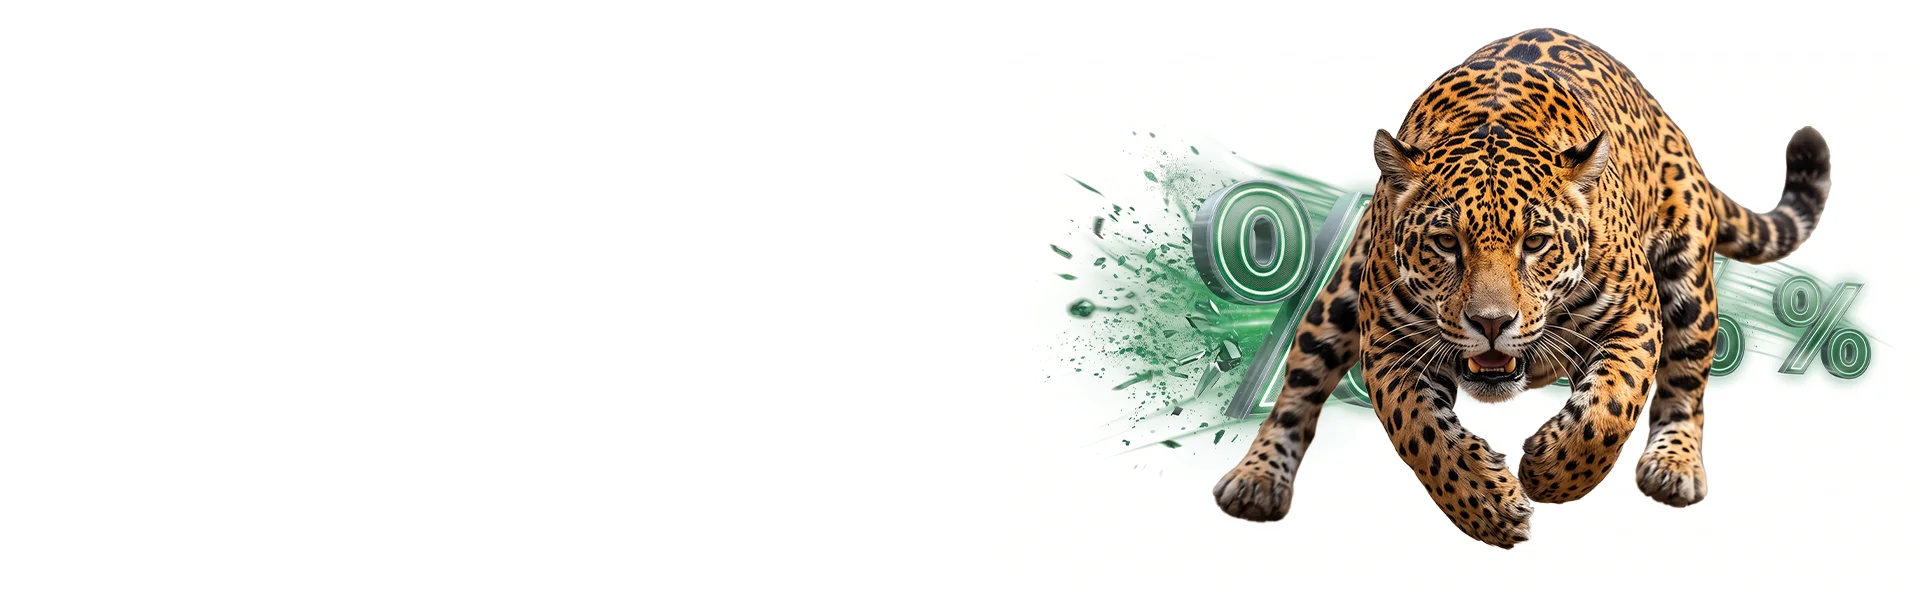
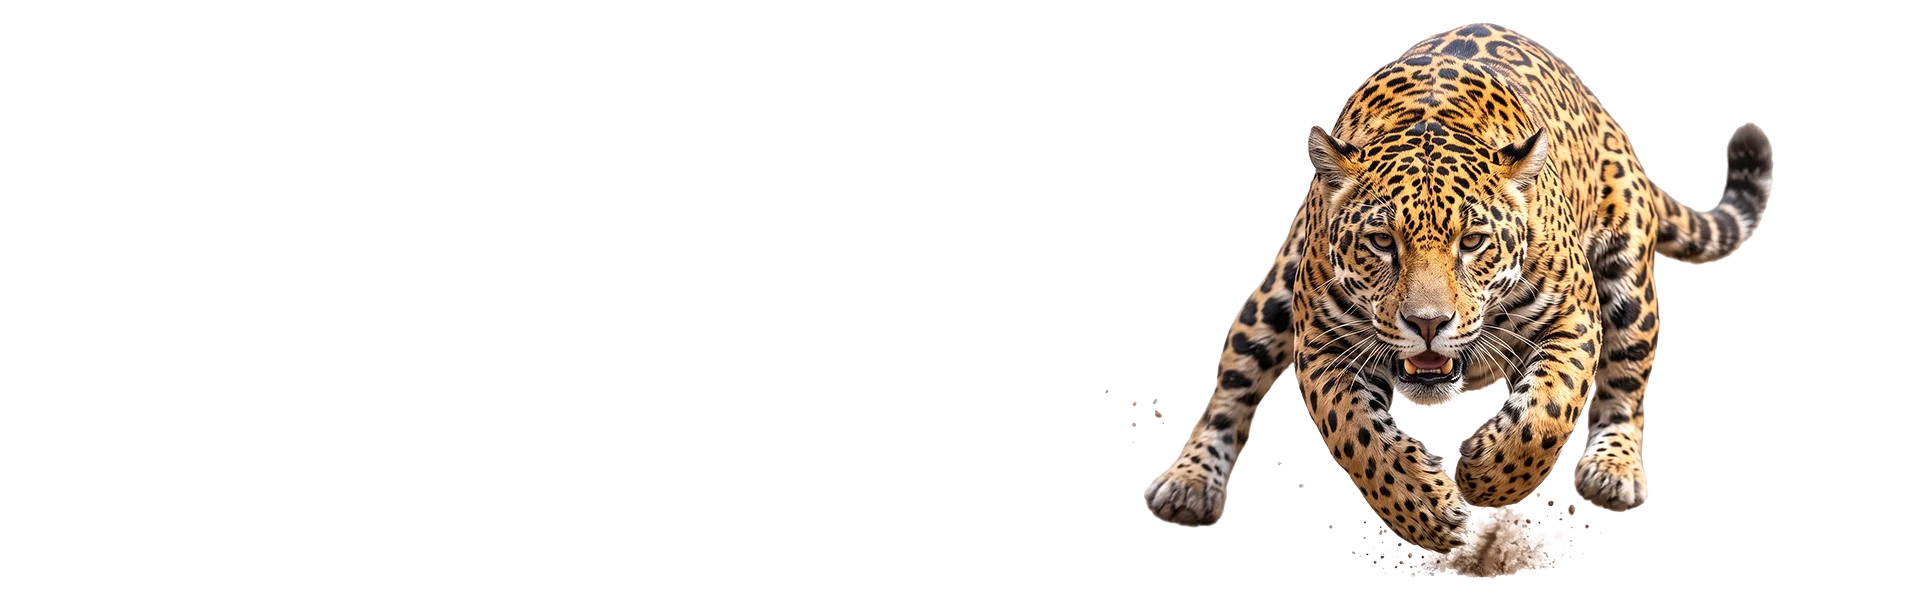
refactor: update newsletter section for improved mobile experience and clarity in documentation

Changed region(s): [[0.5312, 0.03, 1.0, 0.96]]

diff --git a/app/globals.css b/app/globals.css
@@ -865,7 +865,7 @@ strong, b { font-weight: var(--weight-bold); }
 .newsletter-feedback.commerce-error { color: var(--brand-text); }
 
 @media (max-width: 900px) {
-  .newsletter-section { --newsletter-background-image: url("/assets/home/newsletter/background/medicina-sagrada-newsletter-background-mobile.webp"); }
+  .newsletter-section { background-image: none; }
   .newsletter-layout { grid-template-columns: minmax(0, 1fr); gap: 2rem; }
   .newsletter-form { width: min(100%, 40rem); }
 }

diff --git a/public/assets/home/newsletter/background/README.md b/public/assets/home/newsletter/background/README.md
@@ -1,28 +1,26 @@
-# Fundos da newsletter
+# Fundo desktop da newsletter
 
-Coloque os dois arquivos finais nesta pasta, com exatamente estes nomes:
+Coloque o arquivo final nesta pasta, com exatamente o nome indicado:
 
 `public/assets/home/newsletter/background/`
 
 | Versão | Nome do arquivo | Dimensões de exportação | Peso recomendado |
 | --- | --- | --- | --- |
 | Desktop | `medicina-sagrada-newsletter-background-desktop.webp` | **1920 × 600 px** | Até **400 KB** |
-| Mobile | `medicina-sagrada-newsletter-background-mobile.webp` | **1080 × 1800 px** | Até **300 KB** |
 
-Formato: **WebP sRGB com transparência (canal alpha)**. Exporte sem achatar sobre branco. A cor branca da seção permanece por baixo da imagem. Estes são tamanhos de produção definidos para os arquivos a fornecer; as imagens ainda não foram entregues e seus tamanhos reais não foram verificados.
+Formato: **WebP sRGB com transparência (canal alpha)**. Exporte sem achatar sobre branco. A cor branca da seção permanece por baixo da imagem. Dimensões e peso são referências de produção. No mobile, a newsletter usa somente fundo branco, texto e formulário, sem imagem ou área reservada.
 
 ## Composição e área segura
 
-- A imagem fica no fundo de toda a seção, atrás do título, texto e formulário, sem receber eventos ou bloquear controles.
+- Desktop: a imagem fica no fundo da seção, sem receber eventos ou bloquear controles.
 - Não inclua títulos, textos, botão ou campos dentro da arte: esses elementos já existem em HTML.
 - Desktop: título, texto e formulário ficam empilhados na metade esquerda. Preserve essa área transparente ou de baixo contraste; a metade direita fica livre de conteúdo e pode receber a imagem principal.
-- Mobile: composição vertical, com detalhes nas bordas, topo e base; mantenha a coluna central leve ou transparente para a leitura e o formulário empilhados.
-- O CSS usa `background-size: cover` e centraliza a imagem, preservando a proporção. As bordas podem ser recortadas conforme largura e altura da seção, inclusive quando uma mensagem do formulário aumenta a altura.
-- Mantenha elementos visuais importantes dentro dos **70% centrais** da arte. Nas telas intermediárias, o recorte poderá ser maior; evite informação essencial no fundo.
-- A versão mobile entra em telas de **até 900px**, incluindo tablets estreitos. Acima de 900px, entra a versão desktop.
+- Desktop usa `background-size: cover` e centraliza a imagem, preservando a proporção. As bordas podem ser recortadas conforme largura e altura da seção, inclusive quando uma mensagem do formulário aumenta a altura.
+- No desktop, mantenha elementos visuais importantes dentro dos **70% centrais** da arte. Nas telas intermediárias, o recorte poderá ser maior; evite informação essencial no fundo.
+- O fundo desktop aparece somente em telas **acima de 900px**. Até 900px, incluindo tablets estreitos, a imagem não é exibida nem solicitada pelo CSS.
 
 ## Uso
 
-Os caminhos já estão conectados ao CSS da newsletter. Depois de exportar e salvar com esses nomes, recarregue a home para visualizar. A ausência do arquivo mantém o fundo branco; cada versão é independente.
+O caminho desktop já está conectado ao CSS da newsletter. Depois de exportar e salvar com esse nome, recarregue a home para visualizar. A ausência do arquivo mantém o fundo branco. A preparação da imagem mobile foi removida a pedido de Danilo.
 
 Guarde PSD, AI e demais editáveis fora de `public`. Em produção, arquivos novos ou substituídos exigem novo deploy. A preparação destes fundos não modifica a integração de cadastro da newsletter.

diff --git a/docs/NEWSLETTER.md b/docs/NEWSLETTER.md
@@ -8,9 +8,9 @@ O título destaca as palavras “saberes” e “ofertas” com `--forest-650` (
 
 ## Imagens de fundo
 
-Fundos preparados em `public/assets/home/newsletter/background/`, conforme o [contrato de exportação](../public/assets/home/newsletter/background/README.md). Desktop: `medicina-sagrada-newsletter-background-desktop.webp`, 1920 × 600 px, até 400 KB. Mobile: `medicina-sagrada-newsletter-background-mobile.webp`, 1080 × 1800 px, até 300 KB. Ambos WebP sRGB com canal alpha. Os arquivos ainda devem ser fornecidos por Danilo; dimensões e pesos são referências de produção.
+Fundo exclusivo do desktop em `public/assets/home/newsletter/background/`, conforme o [contrato de exportação](../public/assets/home/newsletter/background/README.md): `medicina-sagrada-newsletter-background-desktop.webp`, 1920 × 600 px, WebP sRGB com canal alpha, até 400 KB. Dimensões e peso são referências de produção. A preparação da imagem mobile foi removida a pedido de Danilo.
 
-O CSS já aplica a imagem à seção inteira, centralizada e com `cover`, acima do branco existente. Usa mobile até 900px e desktop acima disso. As bordas podem ser recortadas; preserve a metade esquerda para leitura e formulário no desktop e a coluna central no mobile. Sem o arquivo da versão correspondente, permanece o branco. Não é necessário alterar código ao inserir os arquivos canônicos.
+Acima de 900px, o CSS aplica a imagem desktop à seção inteira, centralizada e com `cover`; preserve a metade esquerda para leitura e formulário. Até 900px, a newsletter usa somente fundo branco, texto e formulário, sem imagem ou área reservada abaixo do conteúdo. Não é necessário alterar código ao substituir o arquivo desktop canônico.
 
 ## Integração a cargo do parceiro
 

diff --git a/docs/CONTEUDO-E-ASSETS.md b/docs/CONTEUDO-E-ASSETS.md
@@ -38,7 +38,7 @@ HTML passa por `lib/html.ts`, com sanitização e preparação de artigos e míd
 | Artesanato | [Imagens](../public/assets/home/crafts/README.md) |
 | História | [Pilares](../public/assets/home/story/pillars/README.md) |
 | Conexão ancestral | [Imagens](../public/assets/home/conexao-ancestral/README.md) |
-| Newsletter | [Fundos transparentes](../public/assets/home/newsletter/background/README.md) |
+| Newsletter | [Fundo transparente desktop](../public/assets/home/newsletter/background/README.md) |
 | Etnias | [Cabeçalhos](../public/assets/ethnicity-headers/README.md) |
 | Aprenda | [Contrato completo](../public/assets/aprenda/README.md) |
 | Parceiros | [Marcas](../public/assets/partners/README.md) |

diff --git a/.impeccable/surfaces/components-home-newsletter-section-tsx.md b/.impeccable/surfaces/components-home-newsletter-section-tsx.md
@@ -15,7 +15,7 @@ Integração Mailchimp/WordPress pertence ao parceiro de Danilo; serviço não c
 
 THESIS: convite claro à newsletter, sem prometer percentuais de desconto.
 
-OWN-WORLD: fundo branco sob arte transparente responsiva, Proxima Nova, títulos verdes e controles existentes.
+OWN-WORLD: fundo branco, com arte transparente somente acima de 900px; mobile sem imagem ou espaço reservado. Proxima Nova, títulos verdes e controles existentes.
 
 STORY: entenda o conteúdo, informe o e-mail e autorize o recebimento.
 

diff --git a/public/assets/README.md b/public/assets/README.md
@@ -14,7 +14,7 @@ não aumentar o deploy.
 - `home/applicators/`: imagens e fundos da seção de aplicadores.
 - `home/kits/`: imagens e fundos da seção de kits.
 - `home/story/pillars/`: imagens dos pilares institucionais.
-- `home/newsletter/background/`: fundos transparentes desktop e mobile da newsletter.
+- `home/newsletter/background/`: fundo transparente da newsletter, exibido somente no desktop.
 
 ## Padrão de nomes
 
